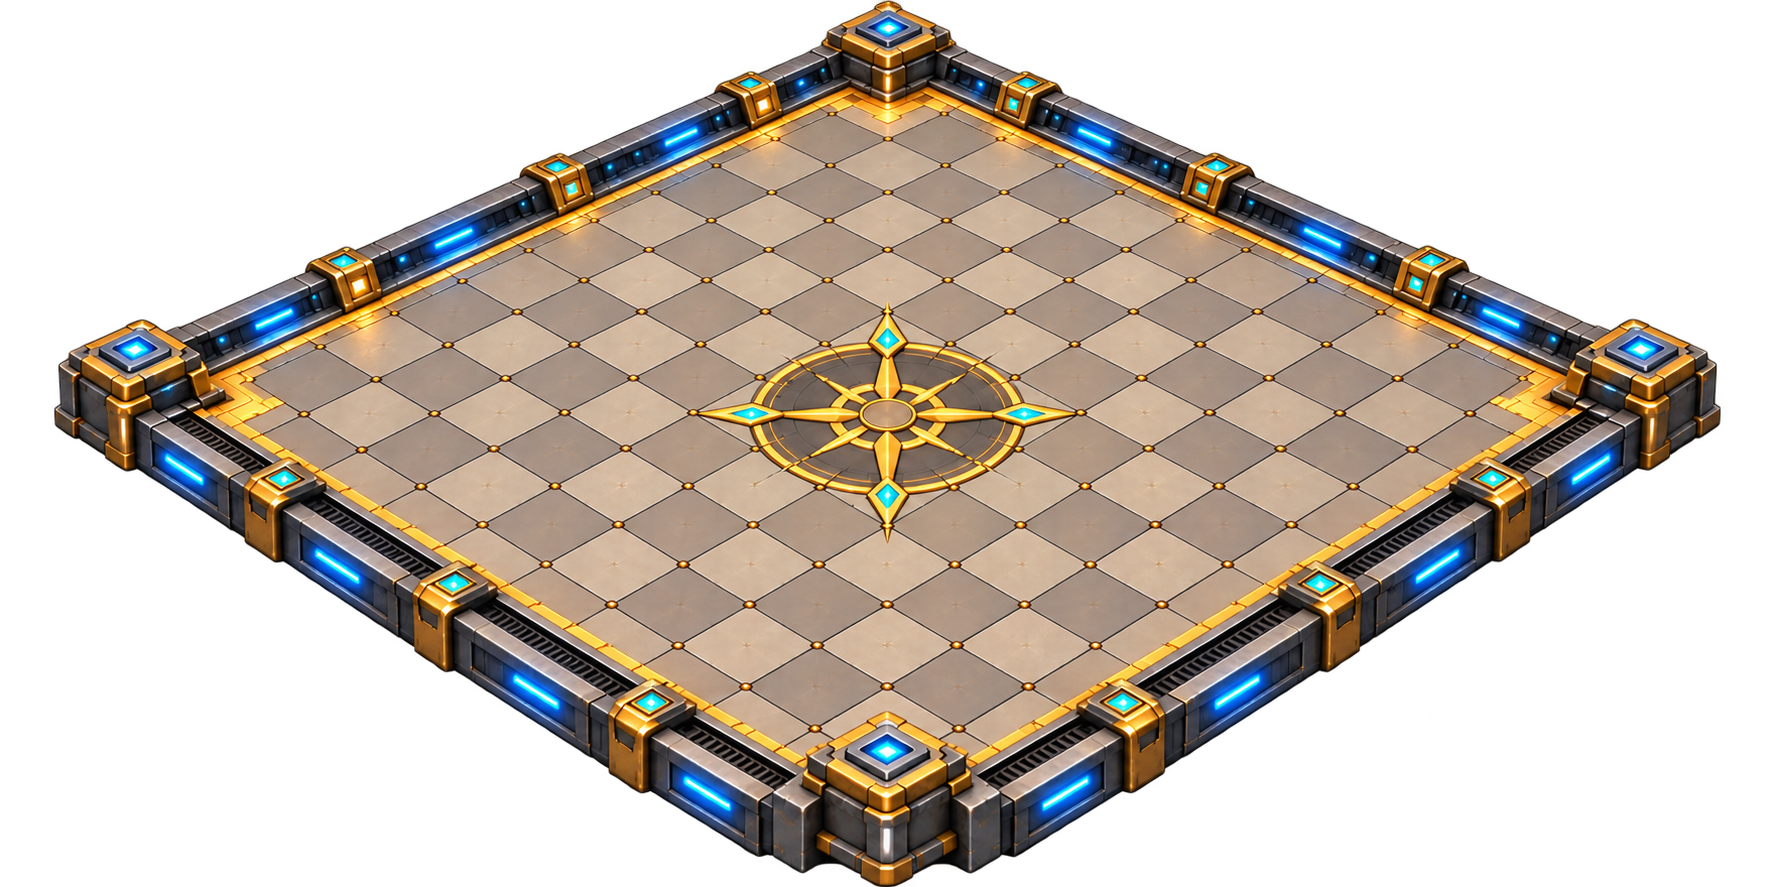
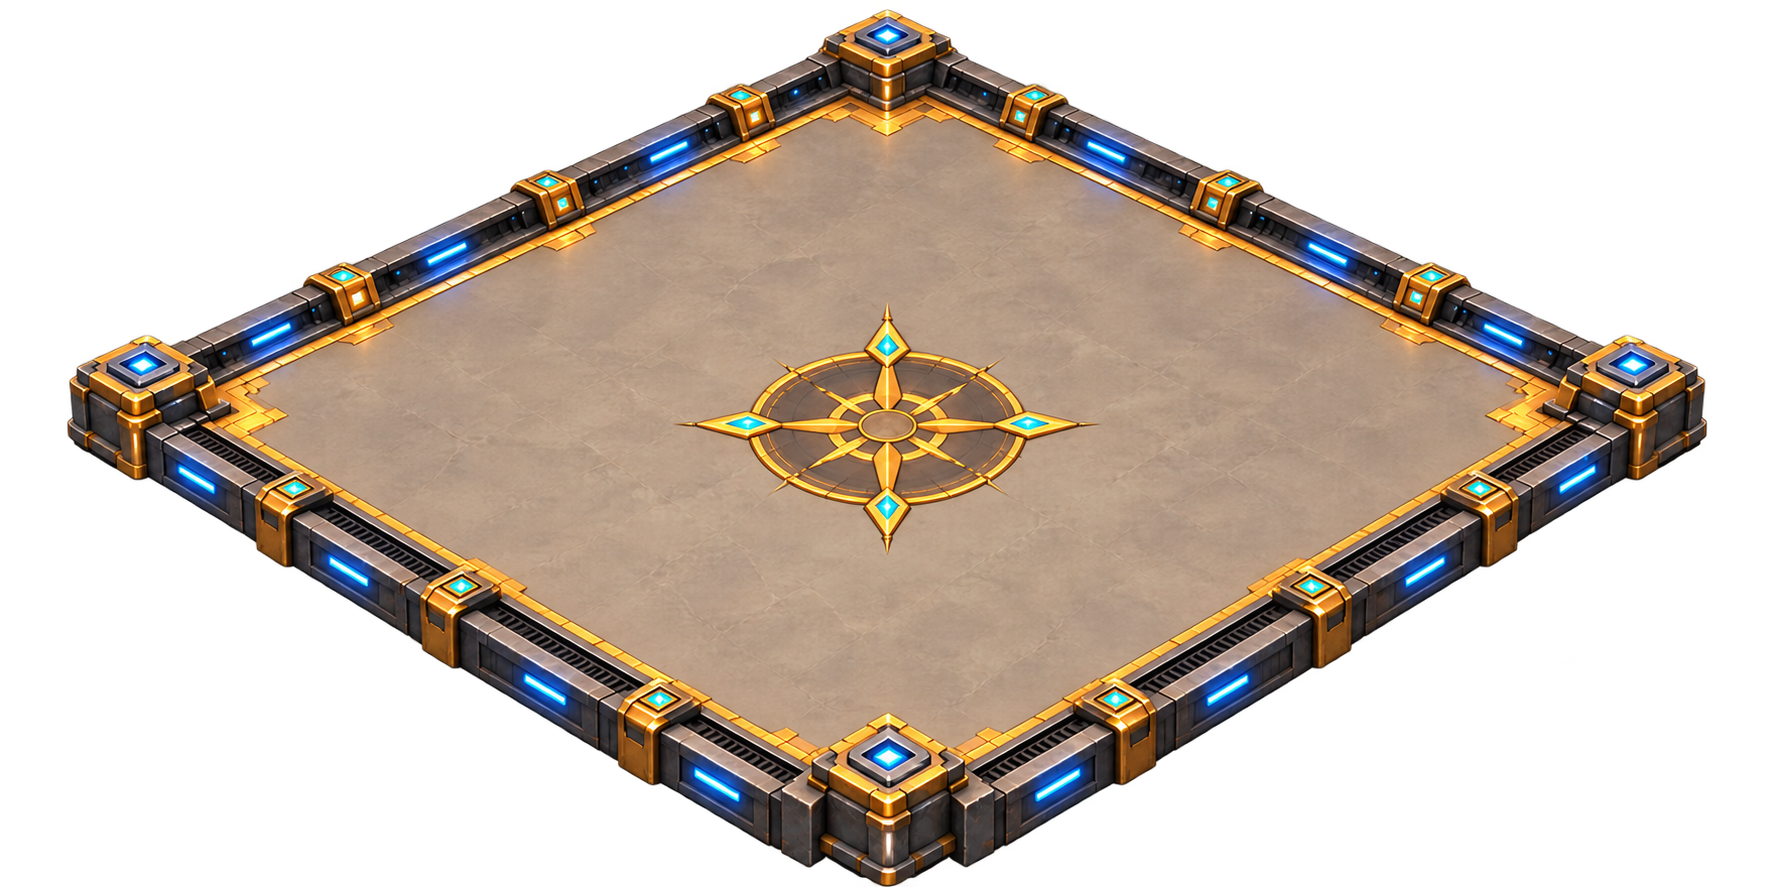
v0.5.24 - Arena Central sin cuadricula

Changed region(s): [[0.031, 0.0, 0.9921, 1.0]]

diff --git a/sw.js b/sw.js
@@ -1,1 +1,1 @@
-const CACHE='liga-mundos-0523';const CORE=['./index.html','./styles.css?v=053','./app.js?v=053','./skill-hold-info.css?v=0521','./skill-hold-info.js?v=0521','./arena-central.css?v=0523','./arena-central.js?v=0523','./assets/arenas/central/arena-central-base.png','./brand.css?v=057','./brand.js?v=0523','./entity-anchor.css?v=057','./champion-assets.css?v=0520','./avatar-layout.css?v=0516','./champion-assets.js?v=0519','./pwa.css?v=057','./pwa.js?v=057','./manifest.webmanifest','./icon-192.png','./icon-512.png','./assets/champions/arfeli/arfeli-avatar.png','./assets/champions/arfeli/arfeli-select.png','./assets/champions/arfeli/arfeli-combat-down-right.png','./assets/champions/arfeli/arfeli-combat-down-left.png','./assets/champions/arfeli/arfeli-combat-up-right.png','./assets/champions/arfeli/arfeli-combat-up-left.png','./assets/champions/coloso/coloso-combat-down-right.png','./assets/champions/coloso/coloso-combat-down-left.png','./assets/champions/coloso/coloso-combat-up-right.png','./assets/champions/coloso/coloso-combat-up-left.png','./assets/champions/onod/onod-combat-down-right.png','./assets/champions/onod/onod-combat-down-left.png','./assets/champions/onod/onod-combat-up-right.png','./assets/champions/onod/onod-combat-up-left.png','./assets/champions/coloso/coloso-avatar.png','./assets/champions/coloso/coloso-select.png','./assets/champions/piplus/piplus-avatar.png','./assets/champions/piplus/piplus-select.png','./assets/champions/onod/onod-avatar.png','./assets/champions/onod/onod-select.png','./assets/champions/korgan/korgan-avatar.png','./assets/champions/korgan/korgan-select.png','./assets/champions/houngan/houngan-avatar.png','./assets/champions/houngan/houngan-select.png'];self.addEventListener('install',e=>e.waitUntil(caches.open(CACHE).then(async c=>{for(const u of CORE){try{await c.add(u)}catch(_){}}})));self.addEventListener('activate',e=>e.waitUntil(caches.keys().then(k=>Promise.all(k.filter(x=>x!==CACHE).map(x=>caches.delete(x)))).then(()=>self.clients.claim())));self.addEventListener('message',e=>{if(e.data?.type==='SKIP_WAITING')self.skipWaiting()});self.addEventListener('fetch',e=>{if(e.request.method!=='GET')return;if(e.request.mode==='navigate'){e.respondWith(fetch(e.request).catch(()=>caches.match('./index.html')));return}e.respondWith(caches.match(e.request).then(c=>{const n=fetch(e.request).then(r=>{if(r?.ok){const q=r.clone();caches.open(CACHE).then(x=>x.put(e.request,q))}return r}).catch(()=>c);return c||n}))});
+const CACHE='liga-mundos-0524';const CORE=['./index.html','./styles.css?v=053','./app.js?v=053','./skill-hold-info.css?v=0521','./skill-hold-info.js?v=0521','./arena-central.css?v=0524','./arena-central.js?v=0524','./assets/arenas/central/arena-central-base.png','./brand.css?v=057','./brand.js?v=0524','./entity-anchor.css?v=057','./champion-assets.css?v=0520','./avatar-layout.css?v=0516','./champion-assets.js?v=0519','./pwa.css?v=057','./pwa.js?v=057','./manifest.webmanifest','./icon-192.png','./icon-512.png','./assets/champions/arfeli/arfeli-avatar.png','./assets/champions/arfeli/arfeli-select.png','./assets/champions/arfeli/arfeli-combat-down-right.png','./assets/champions/arfeli/arfeli-combat-down-left.png','./assets/champions/arfeli/arfeli-combat-up-right.png','./assets/champions/arfeli/arfeli-combat-up-left.png','./assets/champions/coloso/coloso-combat-down-right.png','./assets/champions/coloso/coloso-combat-down-left.png','./assets/champions/coloso/coloso-combat-up-right.png','./assets/champions/coloso/coloso-combat-up-left.png','./assets/champions/onod/onod-combat-down-right.png','./assets/champions/onod/onod-combat-down-left.png','./assets/champions/onod/onod-combat-up-right.png','./assets/champions/onod/onod-combat-up-left.png','./assets/champions/coloso/coloso-avatar.png','./assets/champions/coloso/coloso-select.png','./assets/champions/piplus/piplus-avatar.png','./assets/champions/piplus/piplus-select.png','./assets/champions/onod/onod-avatar.png','./assets/champions/onod/onod-select.png','./assets/champions/korgan/korgan-avatar.png','./assets/champions/korgan/korgan-select.png','./assets/champions/houngan/houngan-avatar.png','./assets/champions/houngan/houngan-select.png'];self.addEventListener('install',e=>e.waitUntil(caches.open(CACHE).then(async c=>{for(const u of CORE){try{await c.add(u)}catch(_){}}})));self.addEventListener('activate',e=>e.waitUntil(caches.keys().then(k=>Promise.all(k.filter(x=>x!==CACHE).map(x=>caches.delete(x)))).then(()=>self.clients.claim())));self.addEventListener('message',e=>{if(e.data?.type==='SKIP_WAITING')self.skipWaiting()});self.addEventListener('fetch',e=>{if(e.request.method!=='GET')return;if(e.request.mode==='navigate'){e.respondWith(fetch(e.request).catch(()=>caches.match('./index.html')));return}e.respondWith(caches.match(e.request).then(c=>{const n=fetch(e.request).then(r=>{if(r?.ok){const q=r.clone();caches.open(CACHE).then(x=>x.put(e.request,q))}return r}).catch(()=>c);return c||n}))});

diff --git a/arena-central.css b/arena-central.css
@@ -1,20 +1,17 @@
-/* v0.5.23 — Arena Central.
-   La arena se monta como una capa <img> real para evitar fallos de background-image.
-   No modifica lógica 12x12, coordenadas ni reglas. */
+/* v0.5.24 — Arena Central sin cuadrícula dibujada.
+   El asset aporta plataforma/suelo; la app aporta la cuadrícula 12x12. */
 
 @media (orientation:landscape){
   .battle-grid.iso-grid{
     background:transparent!important;
   }
 
-  /* Se retira la antigua plataforma verde generada por pseudo-elementos. */
   .battle-grid.iso-grid::before,
   .battle-grid.iso-grid::after{
     content:none!important;
     display:none!important;
   }
 
-  /* Asset visual real de la Arena Central. */
   .battle-grid.iso-grid > .arena-central-layer{
     position:absolute!important;
     z-index:0!important;
@@ -29,14 +26,7 @@
     -webkit-user-select:none!important;
   }
 
-  /*
-    El suelo jugable del arte ocupa aproximadamente:
-    X: 10% → 90%
-    Y: 10% → 82%
-
-    El SVG lógico conserva la proyección 2:1 y se ajusta visualmente
-    sobre el suelo del asset sin tocar coordenadas.
-  */
+  /* La malla lógica queda alineada sobre el piso interior de la plataforma. */
   .battle-grid.iso-grid .iso-floor{
     left:14%!important;
     top:10%!important;
@@ -49,7 +39,6 @@
     filter:none!important;
   }
 
-  /* Entidades ancladas a la misma superficie visual. */
   .battle-grid.iso-grid .iso-entities{
     left:10%!important;
     top:10%!important;
@@ -59,55 +48,54 @@
     height:72%!important;
   }
 
-  /* El arte aporta el suelo y la cuadrícula.
-     El SVG queda como capa funcional y de resaltados. */
+  /* Única cuadrícula visible: la generada por la app. */
   .battle-grid.iso-grid .iso-floor .tile,
   .battle-grid.iso-grid .iso-floor .tile.iso-tone-a,
   .battle-grid.iso-grid .iso-floor .tile.iso-tone-b{
     fill:transparent!important;
-    stroke:#ead8b944!important;
-    stroke-width:.85!important;
-    filter:none;
+    stroke:#9aa58ddd!important;
+    stroke-width:1!important;
+    filter:none!important;
   }
 
   .battle-grid.iso-grid .iso-floor .tile.obstacle{
-    fill:#39443e66!important;
-    stroke:#889483aa!important;
+    fill:#39443e55!important;
+    stroke:#889483cc!important;
   }
   .battle-grid.iso-grid .iso-floor .tile.move{
     fill:#3e8d7088!important;
-    stroke:#8de5c0dd!important;
+    stroke:#8de5c0ee!important;
     stroke-width:2.2!important;
-    filter:drop-shadow(0 0 3px #6fd7ae88);
+    filter:drop-shadow(0 0 3px #6fd7ae88)!important;
   }
   .battle-grid.iso-grid .iso-floor .tile.skill-range{
     fill:#8b783f77!important;
-    stroke:#d4b957cc!important;
+    stroke:#d4b957dd!important;
     stroke-width:1.35!important;
   }
   .battle-grid.iso-grid .iso-floor .tile.skill-range.range-blocked{
     fill:#5b554877!important;
-    stroke:#b6a486cc!important;
+    stroke:#b6a486dd!important;
     stroke-dasharray:4 3!important;
     filter:none!important;
   }
   .battle-grid.iso-grid .iso-floor .tile.target{
     fill:#b0833988!important;
-    stroke:#ffe27add!important;
+    stroke:#ffe27aee!important;
     stroke-width:2.8!important;
-    filter:drop-shadow(0 0 4px #f3cb5d99);
+    filter:drop-shadow(0 0 4px #f3cb5d99)!important;
   }
   .battle-grid.iso-grid .iso-floor .tile.deploy{
     fill:#477d9188!important;
-    stroke:#92d8ffdd!important;
+    stroke:#92d8ffee!important;
     stroke-width:2.2!important;
-    filter:drop-shadow(0 0 3px #6fc8ee88);
+    filter:drop-shadow(0 0 3px #6fc8ee88)!important;
   }
   .battle-grid.iso-grid .iso-floor .tile.deploy-chosen{
     fill:#8d793b88!important;
     stroke:#ffe67cee!important;
     stroke-width:3!important;
-    filter:drop-shadow(0 0 5px #e9c95c99);
+    filter:drop-shadow(0 0 5px #e9c95c99)!important;
   }
   .battle-grid.iso-grid .iso-floor .tile.turn-unit{
     stroke:#f4d86eee!important;
@@ -116,6 +104,6 @@
   .battle-grid.iso-grid .iso-floor .tile.inspected{
     stroke:#f0c95dee!important;
     stroke-width:2.7!important;
-    filter:drop-shadow(0 0 4px #d8b65c99);
+    filter:drop-shadow(0 0 4px #d8b65c99)!important;
   }
 }

diff --git a/brand.js b/brand.js
@@ -1,1 +1,1 @@
-(()=>{'use strict';const V='0.5.23';function rep(){const w=document.createTreeWalker(document,NodeFilter.SHOW_TEXT),a=[];while(w.nextNode())a.push(w.currentNode);for(const n of a){let t=n.nodeValue;t=t.replaceAll('ARENA TÁCTICA','LIGA DE LOS MUNDOS').replaceAll('Arena Táctica','Liga de los Mundos').replaceAll('CIRCUITO GALÁCTICO','LIGA DE LOS MUNDOS').replaceAll('Circuito Galáctico','Liga de los Mundos').replaceAll('TRANSMISIÓN DEL CIRCUITO','TRANSMISIÓN DE LA LIGA').replaceAll('El circuito abre sus puertas','La Liga abre sus puertas').replaceAll('Competidor del circuito','Competidor de la Liga.').replaceAll('Distintos mundos. Una sola Arena.','Distintos mundos. Una sola Liga.').replace(/v0\.5\.(3|6|7|8|9|10|11|12|13|14|15|16|17|18|19|20|21|22)/g,'v'+V);if(t!==n.nodeValue)n.nodeValue=t}}function deco(){document.title='Liga de los Mundos v'+V;rep();const s=document.querySelector('.start-card');if(s&&!s.querySelector('.league-main-logo')){const a=s.querySelector('.start-stars'),b=s.querySelector('.start-brand'),l=document.createElement('div');l.className='league-main-logo';l.innerHTML='<img src="./icon-512.png" alt="Liga de los Mundos">';a?a.replaceWith(l):s.prepend(l);b?.remove()}const br=document.querySelector('.brand-block');if(br&&!br.querySelector('.league-brand-logo')){const m=br.querySelector('.brand-mark');if(m){const i=document.createElement('img');i.className='league-brand-logo';i.src='./icon-192.png';i.alt='';m.replaceWith(i)}}}let q=false;new MutationObserver(()=>{if(q)return;q=true;requestAnimationFrame(()=>{q=false;deco()})}).observe(document.documentElement,{subtree:true,childList:true});document.readyState==='loading'?document.addEventListener('DOMContentLoaded',deco,{once:true}):deco()})();
+(()=>{'use strict';const V='0.5.24';function rep(){const w=document.createTreeWalker(document,NodeFilter.SHOW_TEXT),a=[];while(w.nextNode())a.push(w.currentNode);for(const n of a){let t=n.nodeValue;t=t.replaceAll('ARENA TÁCTICA','LIGA DE LOS MUNDOS').replaceAll('Arena Táctica','Liga de los Mundos').replaceAll('CIRCUITO GALÁCTICO','LIGA DE LOS MUNDOS').replaceAll('Circuito Galáctico','Liga de los Mundos').replaceAll('TRANSMISIÓN DEL CIRCUITO','TRANSMISIÓN DE LA LIGA').replaceAll('El circuito abre sus puertas','La Liga abre sus puertas').replaceAll('Competidor del circuito','Competidor de la Liga.').replaceAll('Distintos mundos. Una sola Arena.','Distintos mundos. Una sola Liga.').replace(/v0\.5\.(3|6|7|8|9|10|11|12|13|14|15|16|17|18|19|20|21|22|23)/g,'v'+V);if(t!==n.nodeValue)n.nodeValue=t}}function deco(){document.title='Liga de los Mundos v'+V;rep();const s=document.querySelector('.start-card');if(s&&!s.querySelector('.league-main-logo')){const a=s.querySelector('.start-stars'),b=s.querySelector('.start-brand'),l=document.createElement('div');l.className='league-main-logo';l.innerHTML='<img src="./icon-512.png" alt="Liga de los Mundos">';a?a.replaceWith(l):s.prepend(l);b?.remove()}const br=document.querySelector('.brand-block');if(br&&!br.querySelector('.league-brand-logo')){const m=br.querySelector('.brand-mark');if(m){const i=document.createElement('img');i.className='league-brand-logo';i.src='./icon-192.png';i.alt='';m.replaceWith(i)}}}let q=false;new MutationObserver(()=>{if(q)return;q=true;requestAnimationFrame(()=>{q=false;deco()})}).observe(document.documentElement,{subtree:true,childList:true});document.readyState==='loading'?document.addEventListener('DOMContentLoaded',deco,{once:true}):deco()})();

diff --git a/index.html b/index.html
@@ -1,1 +1,1 @@
-<!doctype html><html lang="es"><head><meta charset="utf-8"><meta name="viewport" content="width=device-width,initial-scale=1,viewport-fit=cover"><meta name="theme-color" content="#18231b"><meta name="mobile-web-app-capable" content="yes"><meta name="apple-mobile-web-app-capable" content="yes"><meta name="apple-mobile-web-app-status-bar-style" content="black-translucent"><meta name="apple-mobile-web-app-title" content="Liga de los Mundos"><title>Liga de los Mundos v0.5.23</title><link rel="manifest" href="./manifest.webmanifest"><link rel="icon" type="image/png" sizes="192x192" href="./icon-192.png"><link rel="apple-touch-icon" href="./icon-192.png"><link rel="stylesheet" href="./styles.css?v=053"><link rel="stylesheet" href="./brand.css?v=057"><link rel="stylesheet" href="./entity-anchor.css?v=057"><link rel="stylesheet" href="./champion-assets.css?v=0520"><link rel="stylesheet" href="./avatar-layout.css?v=0516"><link rel="stylesheet" href="./pwa.css?v=057"><link rel="stylesheet" href="./skill-hold-info.css?v=0521"><link rel="stylesheet" href="./arena-central.css?v=0523"></head><body><div class="rotate-gate" aria-live="polite"><div class="rotate-phone" aria-hidden="true"><span>✦</span></div><div><b>GIRÁ TU DISPOSITIVO</b><p>Liga de los Mundos está diseñada para jugar en horizontal.</p></div><div class="rotate-arrow" aria-hidden="true">↻</div></div><main id="app"></main><script src="./app.js?v=053"></script><script src="./arena-central.js?v=0523"></script><script src="./skill-hold-info.js?v=0521"></script><script src="./brand.js?v=0523"></script><script src="./champion-assets.js?v=0519"></script><script src="./pwa.js?v=057" defer></script></body></html>
+<!doctype html><html lang="es"><head><meta charset="utf-8"><meta name="viewport" content="width=device-width,initial-scale=1,viewport-fit=cover"><meta name="theme-color" content="#18231b"><meta name="mobile-web-app-capable" content="yes"><meta name="apple-mobile-web-app-capable" content="yes"><meta name="apple-mobile-web-app-status-bar-style" content="black-translucent"><meta name="apple-mobile-web-app-title" content="Liga de los Mundos"><title>Liga de los Mundos v0.5.24</title><link rel="manifest" href="./manifest.webmanifest"><link rel="icon" type="image/png" sizes="192x192" href="./icon-192.png"><link rel="apple-touch-icon" href="./icon-192.png"><link rel="stylesheet" href="./styles.css?v=053"><link rel="stylesheet" href="./brand.css?v=057"><link rel="stylesheet" href="./entity-anchor.css?v=057"><link rel="stylesheet" href="./champion-assets.css?v=0520"><link rel="stylesheet" href="./avatar-layout.css?v=0516"><link rel="stylesheet" href="./pwa.css?v=057"><link rel="stylesheet" href="./skill-hold-info.css?v=0521"><link rel="stylesheet" href="./arena-central.css?v=0524"></head><body><div class="rotate-gate" aria-live="polite"><div class="rotate-phone" aria-hidden="true"><span>✦</span></div><div><b>GIRÁ TU DISPOSITIVO</b><p>Liga de los Mundos está diseñada para jugar en horizontal.</p></div><div class="rotate-arrow" aria-hidden="true">↻</div></div><main id="app"></main><script src="./app.js?v=053"></script><script src="./arena-central.js?v=0524"></script><script src="./skill-hold-info.js?v=0521"></script><script src="./brand.js?v=0524"></script><script src="./champion-assets.js?v=0519"></script><script src="./pwa.js?v=057" defer></script></body></html>

diff --git a/README.md b/README.md
@@ -1,62 +1,57 @@
-# Liga de los Mundos v0.5.23 — Corrección de carga de Arena Central
+# Liga de los Mundos v0.5.24 — Arena Central sin cuadrícula horneada
 
-## Diagnóstico
-En v0.5.22 se cargó correctamente la nueva hoja de estilos: por eso la cuadrícula lógica apareció reducida y reposicionada.
+## Cambio principal
+Se reemplaza el asset anterior de Arena Central por una nueva plataforma cuyo suelo no contiene una cuadrícula de casillas dibujada.
 
-Sin embargo, el asset visual de la Arena Central no apareció en pantalla.
+La cuadrícula visible pasa a ser exclusivamente la cuadrícula 12×12 generada por la app.
 
-El archivo sí estaba presente en el repositorio, por lo que el problema se aisló a la forma de montaje visual mediante `background-image`.
+## Motivo
+En la versión anterior coexistían dos mallas:
+- la cuadrícula pintada dentro del arte;
+- la cuadrícula lógica generada por Código.
 
-## Corrección
-La Arena Central deja de depender de `background-image`.
+Al no compartir exactamente la misma proyección, se veía un descuadre al mover, seleccionar o mostrar alcances.
 
-Se agrega:
-- `arena-central.js`
-
-Esta capa inserta automáticamente un elemento `<img>` real dentro de cada tablero isométrico:
-- al entrar al despliegue;
-- al entrar al combate;
-- después de cada re-render;
-- después de rotar la cámara.
-
-El archivo visual sigue siendo:
-
+## Nuevo asset
 `assets/arenas/central/arena-central-base.png`
 
-## Arquitectura
-Orden visual:
-1. Arena Central (`<img>`)
-2. SVG lógico 12×12
-3. obstáculos / elementos dinámicos
-4. miniaturas
+Verificado:
+- PNG real;
+- RGBA;
+- transparencia exterior;
+- 1774 × 887 px;
+- proporción 2:1;
+- plataforma completa;
+- suelo limpio, sin casillas dibujadas.
 
-La lógica táctica no cambia.
+## Arquitectura visual
+1. Arena Central / plataforma.
+2. Cuadrícula lógica 12×12 de la app.
+3. Obstáculos y elementos dinámicos.
+4. Miniaturas.
+5. Indicadores.
 
 ## Se conserva
-- 12×12 lógico.
-- movimiento.
-- alcance.
-- línea de visión.
-- obstáculos.
-- Pilares/Brotes/trampas.
+- coordenadas 12×12;
+- movimiento;
+- alcance;
+- línea de visión;
+- obstáculos;
+- Pilares/Brotes/trampas;
+- cámara y rotaciones;
+- HUD;
+- habilidades;
+- IA;
 - miniaturas.
-- cámara y cuatro rotaciones.
-- HUD.
-- pulsación larga de habilidades.
-
-## PWA / versión
-- Inicio actualizado a v0.5.23.
-- `arena-central.css` actualizado a `v=0523`.
-- `arena-central.js` añadido con `v=0523`.
-- Caché actualizado a `liga-mundos-0523`.
 
 ## Prueba recomendada
-1. Confirmar v0.5.23.
-2. Entrar a combate.
-3. Confirmar que aparece la plataforma completa debajo de la cuadrícula.
-4. Verificar el encaje de las casillas sobre el suelo.
-5. Probar las cuatro rotaciones.
-6. Confirmar que miniaturas y obstáculos siguen centrados.
+1. Confirmar v0.5.24.
+2. Verificar que sólo existe una cuadrícula visible.
+3. Revisar que las cuatro puntas de la cuadrícula queden dentro del piso de la Arena.
+4. Activar Mover y comprobar que el resaltado coincide exactamente con la malla.
+5. Probar rotación de cámara.
+6. Confirmar miniaturas y obstáculos centrados en sus casillas.
 
 ## Estado
 LISTA PARA PROBAR.
+El siguiente ajuste, si hiciera falta, será únicamente de encuadre del rombo sobre el piso.
